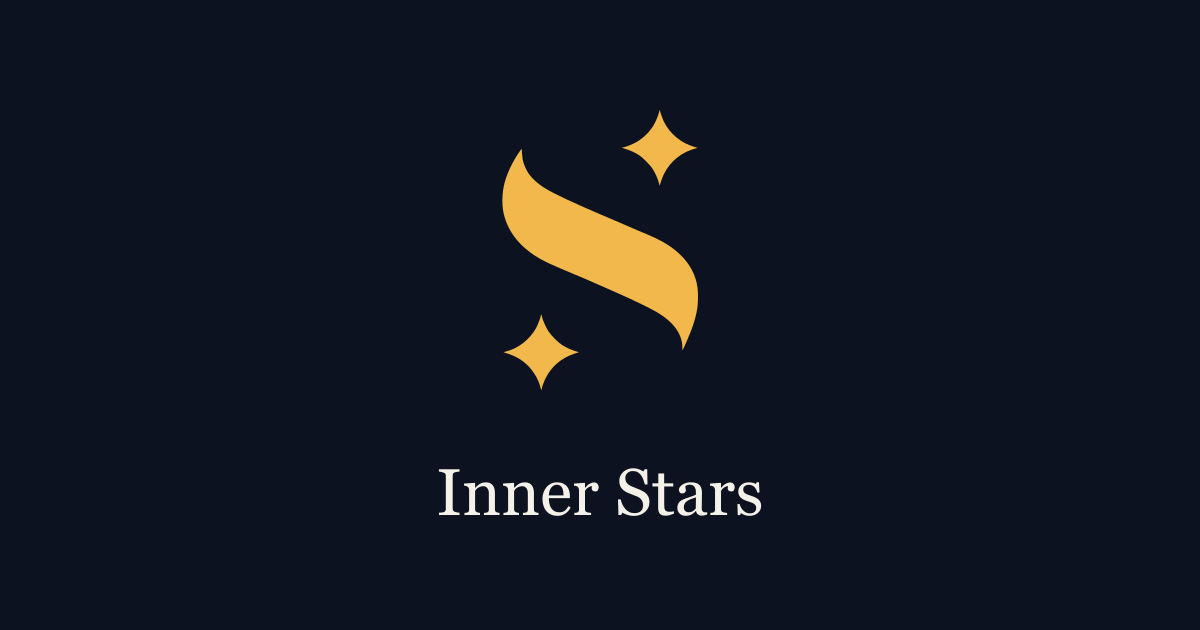
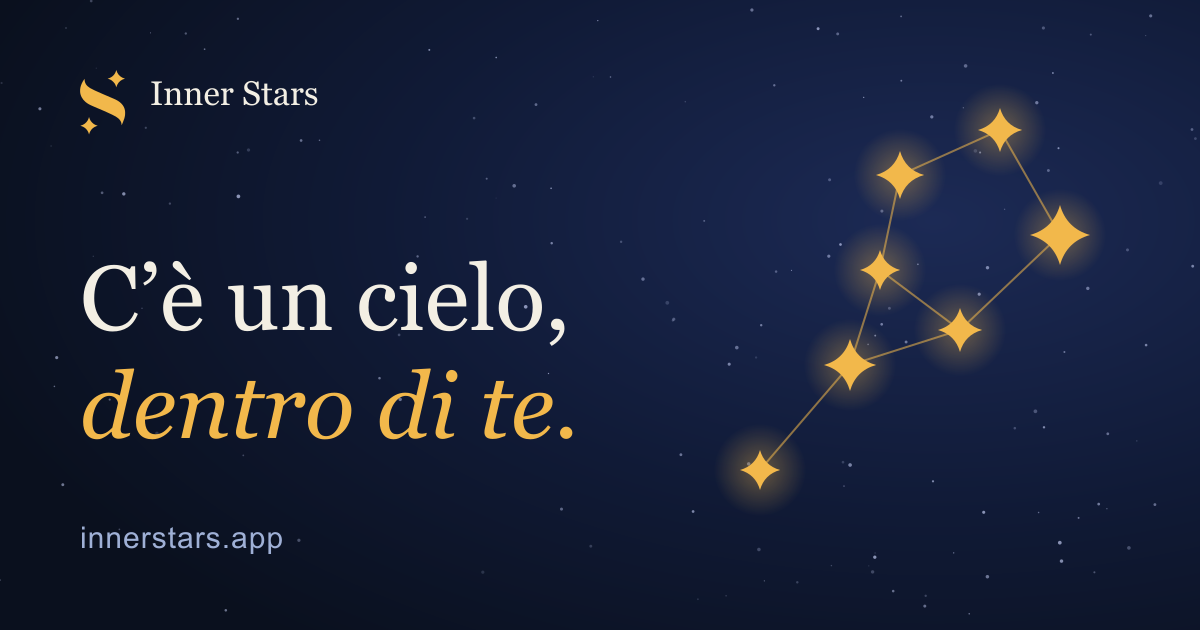
Add app link to shares and richer social previews for the landing

diff --git a/lib/screens/share_composer_page.dart b/lib/screens/share_composer_page.dart
@@ -1,5 +1,15 @@
 part of 'share_composer_screen.dart';
 
+/// Address of the app, appended to every share so the receiver gets a link
+/// with its own preview.
+const kShareAppLink = 'https://innerstars.app';
+
+/// The message sent with the picture: [text] (if any) followed by the app link.
+String shareMessageWithLink(String text) {
+  final trimmed = text.trim();
+  return trimmed.isEmpty ? kShareAppLink : '$trimmed\n$kShareAppLink';
+}
+
 /// Composer for the shareable picture of a victory, goal, habit, project,
 /// vision, moodboard or quote.
 ///
@@ -214,7 +224,7 @@ class _ShareComposerScreenState extends State<ShareComposerScreen> {
           sharePositionOrigin: origin == null
               ? null
               : origin.localToGlobal(Offset.zero) & origin.size,
-          text: widget.shareText,
+          text: shareMessageWithLink(widget.shareText),
           files: [
             XFile.fromData(
               bytes.buffer.asUint8List(),

diff --git a/test/widgets/share_composer_test.dart b/test/widgets/share_composer_test.dart
@@ -48,6 +48,12 @@ bool choiceSelected(WidgetTester tester, String key) => tester
     .selected!;
 
 void main() {
+  test('share message always ends with the app link', () {
+    expect(shareMessageWithLink(''), kShareAppLink);
+    expect(shareMessageWithLink('  '), kShareAppLink);
+    expect(shareMessageWithLink('My star'), 'My star\n$kShareAppLink');
+  });
+
   testWidgets(
     'excerpt editing leaves source intact and composition owns content options',
     (tester) async {

diff --git a/docs/release-plan.md b/docs/release-plan.md
@@ -253,6 +253,14 @@ Ordine: dopo A2, così la nuova entità nasce già pronta alla sync.
   condivisione, foto locale, riflessione con testo lungo) e, sul web, la stessa prova.
   Poi spuntare le due voci `[~]` sopra.
 
+- 21 ottobre 2026 (ramo `anteprime-link`): ogni condivisione allega al testo il link
+  `https://innerstars.app` (`shareMessageWithLink`). La landing ha tre immagini social
+  1200×630 (IT, EN, RO; `landing/scripts/make-og-images.mjs`), con `og:image:width/height/alt`,
+  `og:site_name` e i tag Twitter; l’URL dell’immagine ha `?v=2` per superare la cache di
+  WhatsApp. Anteprima diversa per ogni contenuto: rimandata a dopo la v1 (vedi “Idee per
+  dopo la v1”). **Da fare a mano:** una regola di Cloudflare che porti `www.innerstars.app`
+  su `innerstars.app`, perché oggi rispondono entrambi.
+
 ## A5. Pulizia residua
 
 - [ ] **Prima della release ufficiale:** impostare `_kShowSampleDataForTesting = false` in
@@ -613,6 +621,13 @@ Da fare dopo la parte A (tranne i passi tuoi di B1, che puoi anticipare quando v
   nebulose), dal quale potranno nascere le stelle di oggi. Allora le riflessioni avranno anche il
   loro Fly. Da fare **dopo l'uscita della prima versione**.
 
+- **Anteprima del link diversa per ogni contenuto condiviso** (stile Rave): il link punta a
+  `innerstars.app/s/<id>` e il robot di WhatsApp/Telegram legge l’immagine di quella card.
+  Richiede una copia pubblica della card in cloud (Firestore `shares/{id}` + Storage, quindi
+  Blaze), un id lungo e casuale, una Pages Function che scrive i tag `og:*`, regole di accesso,
+  scadenza/revoca del link, avviso di privacy e aggiornamento della privacy policy. Si fa
+  insieme ai media. Per la v1 vale la via di mezzo: immagine della card + link del sito
+  (vedi A4).
 - Pacchetti di suoni a pagamento come contenuti extra (Sound Lab nascosto per ora).
 - Stella cadente con desideri a tempo e storico.
 - Amici come galassie lontane.
